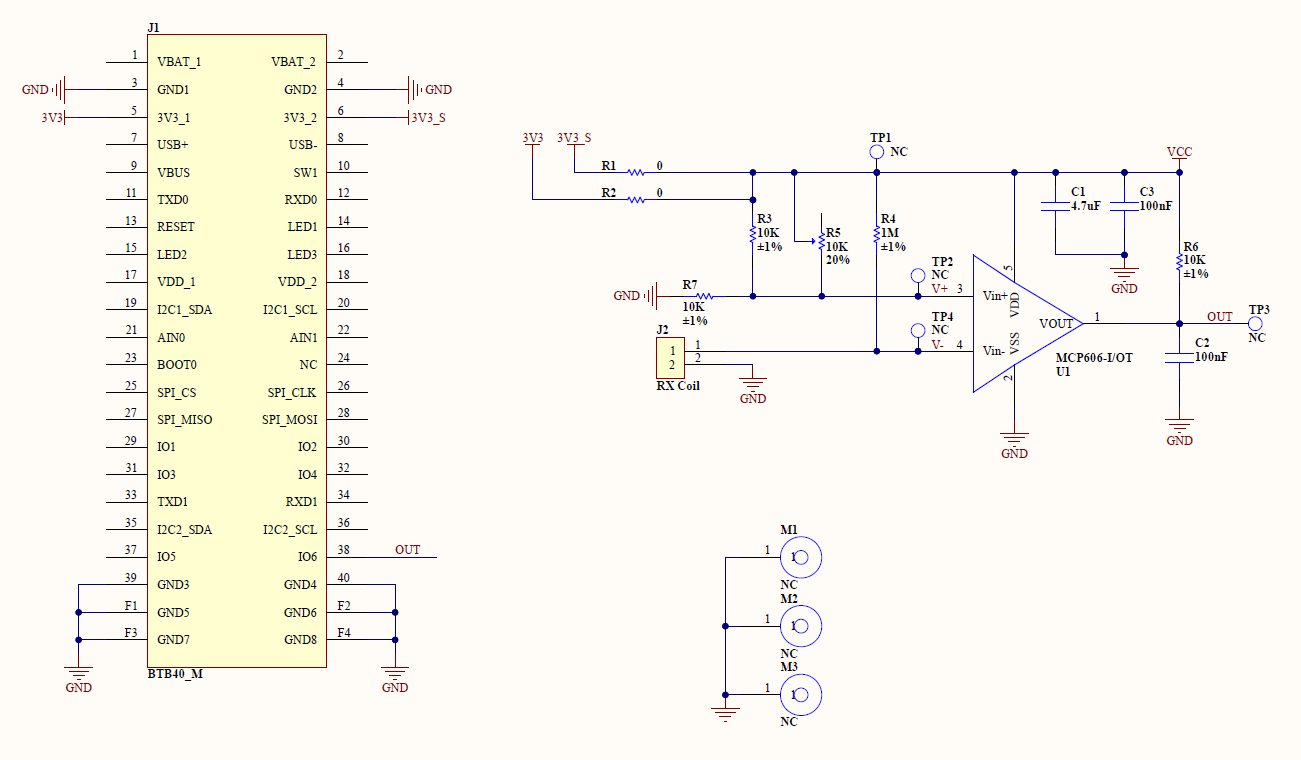
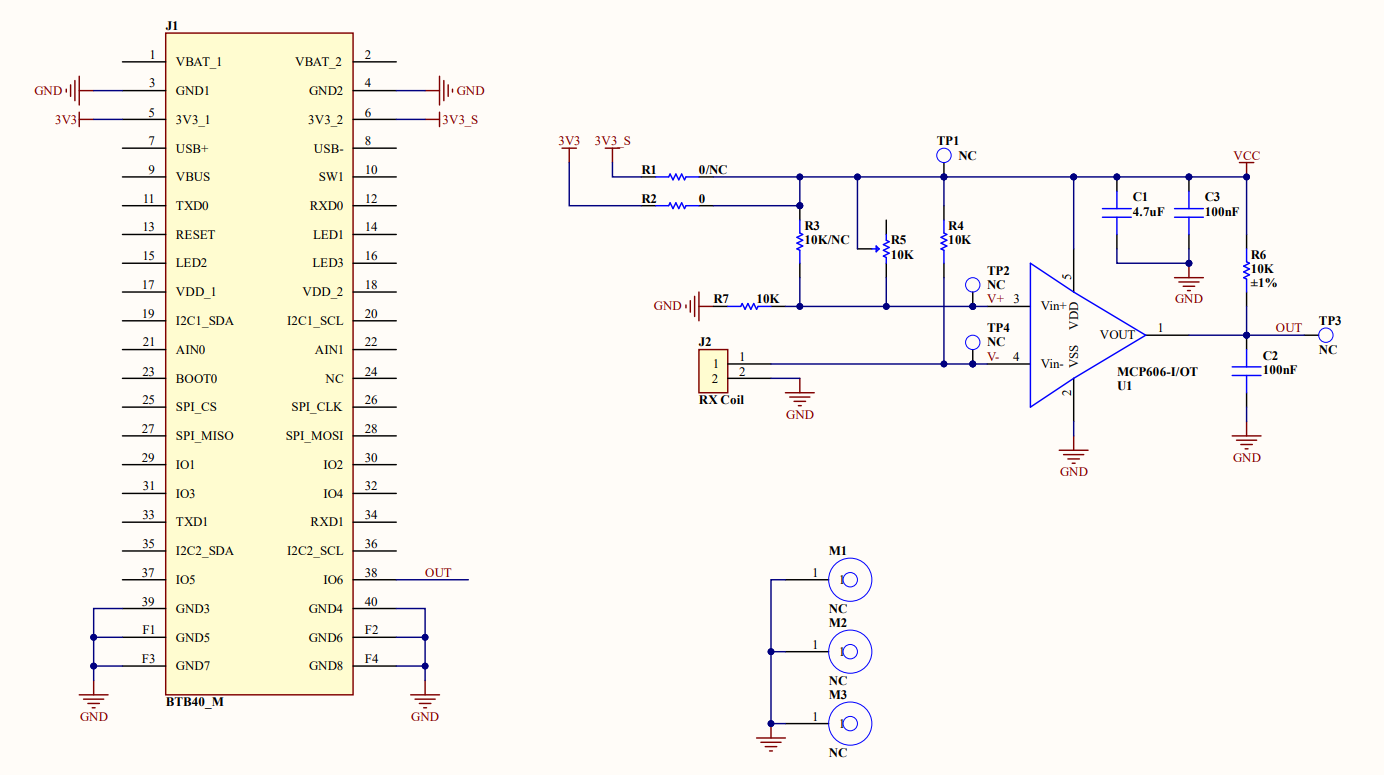
Release (02/23/2022):
- PR#635: WisBlock and WisDuo doc updates
  Updated FW of RAK3172 to 1.0.4
  Update RAK4631 Quickstart: Modify Bootloader update section for Linux
  3V3_S note for WisBlock modules
- [#573] - Updated Firmware For RAK2247 USB and SPI Version
- [#575] - Updated Schematic Diagram for RAK2247

diff --git a/docs/Product-Categories/WisLink/RAK2247/Datasheet/README.md b/docs/Product-Categories/WisLink/RAK2247/Datasheet/README.md
@@ -82,7 +82,7 @@ RAK2247 WisLink LPWAN Concentrator must be supplied through the **3.3Vaux** pins
 
 ##### SPI Interface
 
-SPI interface is provided on the PCIe*SCK, PCIe* MISO, PCIe*MOSI, PCIe* CSN pins of the system connector. The SPI interface gives access to the configuration register of SX1301 via a synchronous full-duplex protocol. Only the slave side is implemented.
+SPI interface is provided on the PCIe_SCK, PCIe_MISO, PCIe_MOSI, PCIe_CSN pins of the system connector. The SPI interface gives access to the configuration register of SX1301 via a synchronous full-duplex protocol. Only the slave side is implemented.
 
 :::tip 📝 NOTE
 RAK2247-USB version does not have this interface.
@@ -245,10 +245,10 @@ RAK2247 WisLink LPWAN Concentrator is an Electrostatic Sensitive Device and requ
 
 ##### Power Consumption
 
-| Mode             | Condition                                                 | Min. | Typical | Max. |
-| ---------------- | --------------------------------------------------------- | ---- | ------- | ---- |
-| Active-Mode(TX)  | The power of TX channel is 25dBm and 3.3V supply.         |      | 789 mA  |      |
-| Active-Mode(RX ) | TX disabled and RX enabled.                               |      | 422 mA  |      |
+| Mode            | Condition                                         | Min. | Typical | Max. |
+| --------------- | ------------------------------------------------- | ---- | ------- | ---- |
+| Active-Mode(TX) | The power of TX channel is 25dBm and 3.3V supply. |      | 789 mA  |      |
+| Active-Mode(RX) | TX disabled and RX enabled.                       |      | 422 mA  |      |
 
 ##### Power Supply Range
 
@@ -279,7 +279,7 @@ Unless otherwise indicated, all operating condition specifications are at an amb
 RAK2247 card refers to Semtech's reference design of SX1301. The SPI interface or USB interface converts SPI to USB2.0 by FT2232H and can be used on PCIE connector.
 
 <rk-img
-  src="/assets/images/wislink-lora/rak2247/datasheet/schematic-2.png"
+  src="/assets/images/wislink-lora/rak2247/datasheet/schematic-2.jpg"
   width="80%"
   caption="RAK2247 Schematic Diagram"
 />
@@ -298,8 +298,8 @@ The figure below shows the minimum application schematic of the RAK2247 card. Yo
 
 | Model         | Raspberry Pi Board  | Firmware Version | Source                                                                                                            |
 | ------------- | ------------------- | ---------------- | ----------------------------------------------------------------------------------------------------------------- |
-| RAK2247 - SPI | Raspberry Pi 3B+, 4 | V4.2.5R          | [Download](https://downloads.rakwireless.com/LoRa/RAK2247-Mini-PCIe/RPi-Firmware/RAK2247_spi_Latest_Firmware.zip) |
-| RAK2247 - USB | Raspberry Pi 3B+, 4 | V4.2.5R          | [Download](https://downloads.rakwireless.com/LoRa/RAK2247-Mini-PCIe/RPi-Firmware/RAK2247_usb_Latest_Firmware.zip) |
+| RAK2247 - SPI | Raspberry Pi 3B+, 4 | V4.2.6R          | [Download](https://downloads.rakwireless.com/LoRa/RAK2247-Mini-PCIe/RPi-Firmware/RAK2247-SPI_Latest_Firmware.zip) |
+| RAK2247 - USB | Raspberry Pi 3B+, 4 | V4.2.6R          | [Download](https://downloads.rakwireless.com/LoRa/RAK2247-Mini-PCIe/RPi-Firmware/RAK2247-USB_Latest_Firmware.zip) |
 
 ## Models / Bundles
 

diff --git a/docs/Product-Categories/WisBlock/RAK4631/Quickstart/README.md b/docs/Product-Categories/WisBlock/RAK4631/Quickstart/README.md
@@ -568,9 +568,22 @@ or
 
 Then download the latest [RAK4631 bootloader firmware](https://github.com/RAKWireless/WisBlock/blob/master/bootloader/RAK4630/Latest/WisCore_RAK4631_Board_Bootloader.zip).
 
-You also need to determine the port name of the RAK4631 using the command:
+Open a new terminal window and connect the RAK4631 to the PC via USB. Now use the `dmesg` command to display system information and check if the USB device has been recognized by Linux. 
 
-`ls /dev/tty*`
+If the RAK4631 USB device is recognized, a listing for the device similar to the one below will be displayed.
+```
+usb 1-1: New USB device found, idVendor=239a, idProduct=0029, bcdDevice= 1.00
+usb 1-1: New USB device strings: Mfr=1, Product=2, SerialNumber=3
+usb 1-1: Product: WisBlock RAK4631
+usb 1-1: Manufacturer: RAKWireless
+usb 1-1: SerialNumber: XXXXXXXXXXXXXXXX
+usb-storage 1-1:1.2: USB Mass Storage device detected
+scsi host1: usb-storage 1-1:1.2
+usbcore: registered new interface driver usb-storage
+cdc_acm 1-1:1.0: ttyACM0: USB ACM device
+usbcore: registered new interface driver cdc_acm
+```
+The line `cdc_acm 1-1:1.0: ttyACM0: USB ACM device` indicates that the port **/dev/ttyACM0** has been allocated for RAK4631.
 
 After determining the port name, go to the directory where the bootloader FW file `WisCore_RAK4631_Board_Bootloader.zip` is located.
 

diff --git a/docs/Product-Categories/WisBlock/RAK13004/Datasheet/README.md b/docs/Product-Categories/WisBlock/RAK13004/Datasheet/README.md
@@ -74,9 +74,9 @@ Figure 2 shows PCA9685 device addressing. Default A5, A4, and A3 are connected t
 The RAK13004 WisBlock PWM Expander Module comprises a standard WisConnector. The WisConnector allows the RAK13004 module to be mounted on a WisBlock Base board. The pin order of the connector and the pinout definition is shown in Figure 3. 
 
 :::tip 📝 NOTE:
-- **I2C** related pins, **OE**，**3V3**, and **GND** are connected to this module.
+- **I2C** related pins, **OE**, **3V3_S**, and **GND** are connected to this module.
 - **OE** output enable pin, low active, internal pull-up, disable output.
-- 3V3 and 3V3_S from WisBlock Base board, but 3V3_S can be controlled by IO2. Default is connected to 3V3_S.
+- **3V3_S** voltage output from the WisBlock Base that powers the RAK13004 module can be controlled by the WisBlock Core via WB_IO2 (WisBlock IO2 pin). This makes the module ideal for low-power IoT projects since the WisBlock Core can totally disconnect the power of the RAK13004 module.
 :::
 
 <rk-img

diff --git a/docs/Product-Categories/WisLink/RAK2247/Overview/README.md b/docs/Product-Categories/WisLink/RAK2247/Overview/README.md
@@ -20,8 +20,8 @@ RAK2247 supports development based on multiple platforms, you can choose suitabl
 
 * **RAK2247 USB/SPI + Raspberry Pi**
   * [Source Code Repository](https://github.com/RAKWireless/rak_common_for_gateway)
-  * [RAK2247 USB + Raspberry Pi Firmware](https://downloads.rakwireless.com/LoRa/RAK2247-Mini-PCIe/RPi-Frimware/RAK2247-USB_Latest_Firmware.zip)
-  * [RAK2247 SPI + Raspberry Pi Firmware](https://downloads.rakwireless.com/LoRa/RAK2247-Mini-PCIe/RPi-Frimware/RAK2247-SPI_Latest_Firmware.zip)
+  * [RAK2247 USB + Raspberry Pi Firmware](https://downloads.rakwireless.com/LoRa/RAK2247-Mini-PCIe/RPi-Firmware/RAK2247-USB_Latest_Firmware.zip)
+  * [RAK2247 SPI + Raspberry Pi Firmware](https://downloads.rakwireless.com/LoRa/RAK2247-Mini-PCIe/RPi-Firmware/RAK2247-SPI_Latest_Firmware.zip)
 * **RAK2247 USB + x86 PC**
   * [Source Code Repository](https://github.com/RAKWireless/rak_common_for_gateway)
   * [Quick Start Guide](/Product-Categories/WisLink/RAK2247/Quickstart/#rak2247-x86-linux-pc)

diff --git a/docs/Product-Categories/WisBlock/RAK12006/Datasheet/README.md b/docs/Product-Categories/WisBlock/RAK12006/Datasheet/README.md
@@ -62,7 +62,7 @@ The RAK12006 module has a 40-pin WisConnector that is compatible to the WisBlock
 ::: tip 📝 NOTE
 - Only **Digital OUT**, **3V3**, and **GND** are connected to WisConnector.
 
-- An optional **3V3_S** supply voltage can be used to turn ON or OFF the RAK12006 module through the **IO2** pin. This can be helpful on low power application.
+- An optional **3V3_S** supply voltage can be used to turn ON or OFF the RAK12006 module through the IO2 pin. This can be helpful on low power application.
 
 - To disable the default **3V3** supply and use the alternative **3V3_S** supply source, the resistor jumpers R1 must be 0&nbsp;Ω and R2 must be NC (not connected).
 :::  

diff --git a/docs/Product-Categories/WisBlock/RAK12012/Datasheet/README.md b/docs/Product-Categories/WisBlock/RAK12012/Datasheet/README.md
@@ -69,7 +69,7 @@ The RAK12012 WisBlock Heart Rate module comprises a standard WisIO connector. Th
  
 ::: tip 📝 NOTE
 - **I2C** related pins: **INT**,**3V3_S**, and **GND** are connected to WisIO connector.
-- The **3V3_S** supply can be disconnected to save power via **WB_IO2**. 
+- **3V3_S** voltage output from the WisBlock Base that powers the RAK12012 module can be controlled by the WisBlock Core via WB_IO2 (WisBlock IO2 pin). This makes the module ideal for low-power IoT projects since the WisBlock Core can totally disconnect the power of the RAK12012 module. 
 :::
 
  <rk-img

diff --git a/docs/Product-Categories/WisDuo/RAK3172-Module/Datasheet/README.md b/docs/Product-Categories/WisDuo/RAK3172-Module/Datasheet/README.md
@@ -235,7 +235,7 @@ RAK3172 uses UART2 serial pins to upload the latest firmware.
 
 | Model   | Version | Source                                                                                          |
 | ------- | ------- | ----------------------------------------------------------------------------------------------- |
-| RAK3172 | V1.0.3  | [Download](https://downloads.rakwireless.com/LoRa/RAK3172/Firmware/RAK3172_Latest_Firmware.zip) |
+| RAK3172 | V1.0.4  | [Download](https://downloads.rakwireless.com/LoRa/RAK3172/Firmware/RAK3172_Latest_Firmware.zip) |
 
 ## Certification
 

diff --git a/docs/Product-Categories/WisDuo/RAK3272S-Breakout-Board/Datasheet/README.md b/docs/Product-Categories/WisDuo/RAK3272S-Breakout-Board/Datasheet/README.md
@@ -182,4 +182,4 @@ RAK3272S uses UART2 serial pins to upload the latest firmware.
 
 | Model    | Version | Source                                                                                            |
 | -------- | ------- | ------------------------------------------------------------------------------------------------- |
-| RAK3272S | V1.0.3  | [Download](https://downloads.rakwireless.com/LoRa/RAK3272S/Firmware/RAK3272S_Latest_Firmware.zip) |
+| RAK3272S | V1.0.4  | [Download](https://downloads.rakwireless.com/LoRa/RAK3172/Firmware/RAK3172_Latest_Firmware.zip) |

diff --git a/docs/Product-Categories/WisDuo/RAK3172-Evaluation-Board/Datasheet/README.md b/docs/Product-Categories/WisDuo/RAK3172-Evaluation-Board/Datasheet/README.md
@@ -286,7 +286,7 @@ RAK3172 uses UART2's serial pins to upload the latest firmware.
 
 | Model     | Version     | Source                                                              |
 | --------- | ----------- | ------------------------------------------------------------------- |
-| RAK3172   | V1.0.3      | [Download](https://downloads.rakwireless.com/LoRa/RAK3172/Firmware/RAK3172_Latest_Firmware.zip) |
+| RAK3172   | V1.0.4      | [Download](https://downloads.rakwireless.com/LoRa/RAK3172/Firmware/RAK3172_Latest_Firmware.zip) |
 
 <!-- ## Certification
 

diff --git a/docs/Product-Categories/WisBlock/RAK16000/Datasheet/README.md b/docs/Product-Categories/WisBlock/RAK16000/Datasheet/README.md
@@ -72,7 +72,7 @@ The RAK16000 WisBlock DC Current Module comprises a standard 40-pin WisIO connec
 ::: tip 📝 NOTE
 
 - Only the **I2C** related pins, **3V3_S** and **GND** are connected to the WisIO connector.
-
+- **3V3_S** voltage output from the WisBlock Base that powers the RAK16000 module can be controlled by the WisBlock Core via WB_IO2 (WisBlock IO2 pin). This makes the module ideal for low-power IoT projects since the WisBlock Core can totally disconnect the power of the RAK16000 module.
 :::  
 
 #### Electrical Characteristics

diff --git a/docs/Product-Categories/WisBlock/RAK12015/Datasheet/README.md b/docs/Product-Categories/WisBlock/RAK12015/Datasheet/README.md
@@ -57,6 +57,7 @@ The RAK12015 WisBlock Vibration Detection Module comprises a standard WisIO conn
 
 ::: tip 📝 NOTE
 - The **3V3_S**, **AIN1**, and **GND** are connected to WisIO connector.
+- **3V3_S** voltage output from the WisBlock Base that powers the RAK12015 module can be controlled by the WisBlock Core via WB_IO2 (WisBlock IO2 pin). This makes the module ideal for low-power IoT projects since the WisBlock Core can totally disconnect the power of the RAK12015 module.
 :::
 
 #### Electrical Characteristics

diff --git a/docs/Product-Categories/WisDuo/RAK3172-Module/AT-Command-Manual/README.md b/docs/Product-Categories/WisDuo/RAK3172-Module/AT-Command-Manual/README.md
@@ -1366,7 +1366,7 @@ This command is used to get the firmware version installed on the device.
 **Example**:
 ```
 AT+VER=?
-V1.0.2
+V1.0.4
 
 OK
 ```
